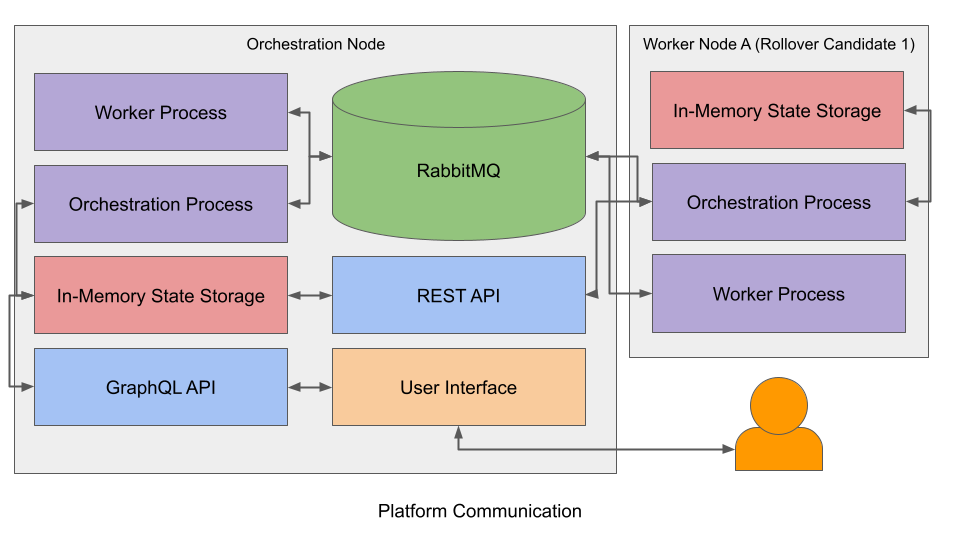
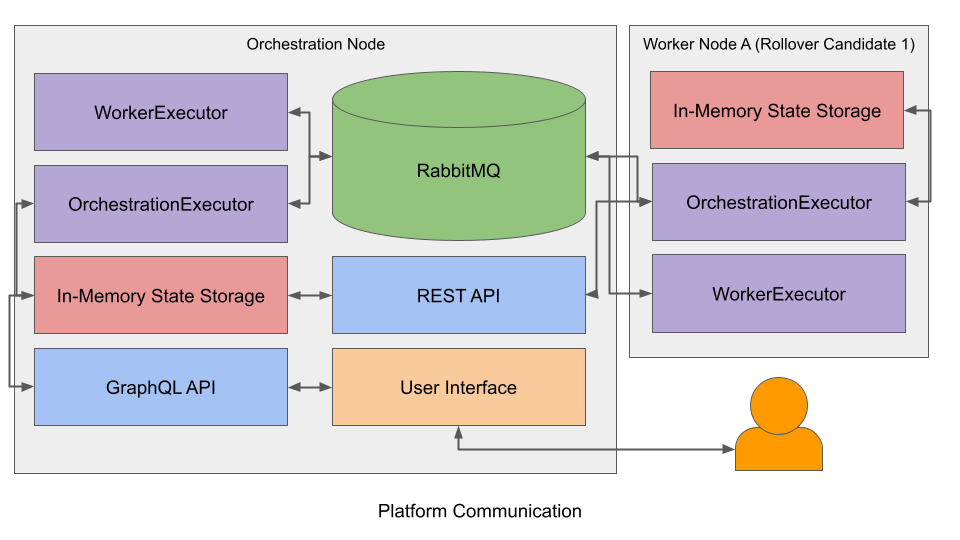
report communication, and fixed all deployment having an Errored status bug

diff --git a/src/platform_executor/orchestration_executor/executor.rs b/src/platform_executor/orchestration_executor/executor.rs
@@ -253,7 +253,7 @@ impl Executor for OrchestrationExecutor {
                                         }
 
                                         deployment.node = curr_node.id.clone();
-                                        deployment.update_status(&ApplicationStatus::Errored);
+                                        deployment.update_status(&ApplicationStatus::Deploying);
                                         self.update_deployment_in_db(&deployment);
                                         // Send work to curr_node
                                         let msg = WorkRequestMessage::new(

diff --git a/documentation/Report.md b/documentation/Report.md
@@ -227,67 +227,61 @@ A Worker, or more precisely a `WorkerExecutor`, handles all tasks in relation to
 
 ```rust
 pub struct WorkerExecutor {
-    /// Each WorkRequestMessage is a request of the worker by the orchestrator
-    /// work_queue_consumer is a consumer of this worker's WorkRequestQueue
     work_queue_consumer: Option<lapin::Consumer>,
     deployments: std::collections::LinkedList<DeploymentInfo>,
     tasks: Vec<Task>,
 }
 ```
 
+A `WorkerExecutor` is relatively simple- it has a handle to a RabbitMQ Queue, `work_queue_consumer`, over which is recieves `WorkRequestMessages`. It has a list of deployments it monitors, `deployments`, and it has a handle to other tasks it is monitoring, `tasks`.
+
+When setup is called on the `WorkerExecutor`, it connects to RabbitMQ, begins broadcasting the Node status to the orchestrator, and establishes the consumer for the `work_queue_consumer`.
+
+On a call to `execute`, the worker does two things: first, it checks to see if it has an outstanding `WorkRequestMessage`. This message is passed to the worker via the RabbitMQ consumer and is extensible, but currently only supports two request types: `RequestDeployment` and `CancelDeployment`. The request contains all the necesarry information for the Worker to perform the requested task. Finally, the `Worker` looks at all its active deployments and broadcasts any relevant log messages to the relevant RabbitMQ queue. More information about how the `RequestDeployment` process works can be found in [Deployments](###Deployments)
+
+Below you can find a simplified version of the code which implements the `Executor` trait for the `WorkerExecutor`.
+
 ```rust
 
 impl Executor for WorkerExecutor {
 
-    async fn setup(&mut self, node: &mut GenericNode) -> Result<(), SetupFaliure> {
+    async fn setup(..) -> Result<(), SetupFaliure> {
         // connect to rabbitMQ
         connect_to_rabbit_instance(&node.rabbit_addr).await;
 
         // create a task to monitor this Node's stats
-        self.tasks.push(Task {
-            task: WorkerExecutor::get_publish_node_system_stats_task(node).await,
-            label: String::from("NodeStats"),
-        });
+        WorkerExecutor::get_publish_node_system_stats_task(node).await
 
         // establish consumer for the worker's work queue
-        self.work_queue_consumer = Some(
-            broker.consume_queue_incr(&node.system_id, &node.system_id).await
-        );
+        broker.consume_queue_incr(&node.system_id).await
     }
 
-    async fn execute(&mut self, node: &mut GenericNode) -> Result<(), ExecutionFaliure> {
-
+    async fn execute(..) -> Result<(), ExecutionFaliure> {
         // if we have a WorkRequestMessage, then execute it
         if let Some(data) = try_fetch_consumer_item(&mut self.work_queue_consumer).await {
             let (_, task) = WorkRequestMessage::deconstruct_message(&data);
 
             match task.request_type {
-                WorkRequestType::RequestDeployment => {
+                RequestDeployment => {
                     handle_deployment(&task).await;
                 }
-                WorkRequestType::CancelDeployment => {
-                    kill_deployment(&task.deployment_id).await;
+                CancelDeployment => {
+                    kill_deployment(&task).await;
                 }
             }
         }
 
         for (index, d) in self.deployments.iter_mut().enumerate() {
-            // if more than a second has passed, check for logs and get updated deployment status
 
             let logs = docker.get_logs(&d.deployment_id).await;
             if !logs.is_empty() {
                 let mut msg = LogMessage::new(&d.deployment_id, &logs.join());
-                msg.send(&publisher, QueueLabel::Log.as_str()).await;
+                msg.send().await;
             }
 
             let status = docker.get_container_status(&d.deployment_id).await
             let mut msg = DeploymentMessage::new(&d.deployment_id, status);
-            msg.send(&publisher, QueueLabel::Deployment.as_str()).await;
-
-            if d.status.is_err() {
-                // remove deployment from those we are actively monitoring, it is dead
-                // ..
-            }
+            msg.send().await;
         }
     }
 }
@@ -296,19 +290,189 @@ impl Executor for WorkerExecutor {
 
 ### Orchestrators
 
+An Orchestrator, or more precisely an `OrchestratorExecutor`, is more complex. It handles all tasks in relation to coordinating deployments- this includes recieving requests for deployments/cancellations from the REST API, validating they are deployable, and distributing requests to nodes. Additionally the orchestrator is responsible for deploying and respoinding to requests from the REST and GraphQL APIs, deploying the RabbitMQ instance, storing application logs, and otherwise managing the platform.
+
+```rust
+pub struct OrchestrationExecutor {
+    /// A handle to the rocket.rs http server task
+    api_server: Option<tokio::task::JoinHandle<()>>,
+    /// A reference to the Database containing information about the platform
+    pub db_ref: Arc<Mutex<Database>>,
+    /// The rank of this executor for rollover. 0 implies this is the active orchestrator, None implies none is assigned.
+    /// Otherwise is treated as lowest number is highest priority
+    pub rollover_priority: Option<u8>,
+    pub queue_consumers: Vec<Task>,
+}
+```
+
+The most important piece of the `OrchestrationExecutor` is the `db_ref`. This is a thread-safe reference to a `Database`. See more information in [In-Memory State Storage](###In-Memory-State-Storage) and [Communication](###Communication) for how this works, but the general idea is the `api_server` has a reference to the database, and so is able to create requests there for deployments. The Orchestrator is then able to read the `Database` record for Nodes and Deployments, and take any actions necesarry based on their states.
+
+When setup is called on the `OrchestrationExecutor`, it fetches the most recent version of the `Kraken-UI` interface and compiles it, spins up a `RabbitMQ` server, connects to it, and sets up threads to consume the various status queues. Finally it establishes the REST and GraphQL APIs which serve the UI and Platform Data.
+
+On a call to `execute`, the Orchestrator does two things: first, it checks all available deployment statuses to see if there is any action to be taken. For example, a deployment might be asking to be updated, destroyed, or created. The Orchestrator will take any action necesarry for those deployments. Then, the Orchestrator will check all the `Nodes` it knows about to ensure they have recently reported a status. If they haven't, it will re-deploy any deployments owned by that Node, and otherwise remove it from the platform.
+
+Below you can find a simplified version of the code which implements the `Executor` trait for the `OrchestrationExecutor`.
+
+```rust
+
+impl Executor for OrchestrationExecutor {
+    async fn setup(..) -> Result<(), SetupFaliure> {
+
+        // Setup RabbmitMQ server and Fetch and compile Kraken-UI
+        let ui = OrchestrationExecutor::fetch_ui();
+        let rabbit = OrchestrationExecutor::deploy_rabbit_instance();
+
+        Self::connect_to_rabbit_instance().await;
+
+        // Consume RabbitMQ Queues
+        // Queue for information about Node statuses
+        self.get_sysinfo_consumer();
+
+        // Queue for information about Deployment statuses
+        self.get_deployment_consumer();
+
+        // Queue for recieving Deployment Logs
+        self.get_log_consumer();
+
+        OrchestrationExecutor::create_api_server();
+    }
+
+    async fn execute(..) -> Result<(), ExecutionFaliure> {
+
+        let deployments = db.get_deployments();
+
+        for mut deployment in d {
+            match deployment.status.0 {
+                DeploymentRequested => {
+                    // Look for free nodes to distribute tasks to
+                    deployment.update_status(ValidatingDeploymentData);
+                    if let Err(_) = validate_deployment(..) {
+                        continue
+                    }
+                    deployment.update_status(DelegatingDeployment);
+
+                    // Pick the best node to handle the deployment
+                    // ..
+
+                    deployment.update_status(Deploying);
+                    // Send work to curr_node
+                    // Create and send a WorkRequestType::RequestDeployment
+                    // For the appropriate node
+                    // ..
+                }
+                UpdateRequested => {
+                    let commit = github_api::get_tail_commit(..);
+                    if commit != deployment.commit {
+                        // Creates and sends a WorkRequestMessage::CancelDeployment
+                        // followed by a WorkRequestType::RequestDeployment
+                        // ..
+                    }
+                }
+                DestructionRequested => {
+                    // Creates and sends a WorkRequestMessage::CancelDeployment
+                    // ..
+                }
+            }
+        }
+
+        for n in db.get_nodes() {
+            // Check to see if a node hasn't been heard from in awhile
+            // If so, then re-deploy all it's owned deployments and remove
+            // All node information from the DB
+            // ..
+        }
+    }
+}
+
+```
+
 ### Orchestration Rollover Candidates
+
+Though technically this role falls under the `OrchestrationExecutor` umbrella, an Orchestration Rollover Candidate is worth talking about separately. These are `OrchestrationExecutors` which have a `rollover_priority != Some(0)`. In these cases, the `setup` for the executor will do nothing. In `execute`, the orchestrator is only responsible for checking to see that it can communicate with the primary orchestrator. If the candidate is the primary candidate (i.e. the first rollover node), then it will also backup the database and log data from the primary orchestrator.
+
+```rust
+
+impl Executor for OrchestrationExecutor {
+    async fn setup(..) -> Result<(), SetupFaliure> {
+        // We are not the primary orchestrator, so no setup is necesarry
+    }
+
+    async fn execute(..) -> Result<(), ExecutionFaliure> {
+
+        let priority = get_rollover_priority(..).await;
+        match priority {
+            None => {
+                // No priority means we have an issue with the orchestration communication
+                // Here we attempt some recovery
+                // ..
+            }
+            Some(_) => {
+                if self.rollover_priority == Some(1) {
+                    // We are the primary rollover canidate, so we need to be backing up
+                    // data from the primary
+                    let database_data = get_primary_orchestrator_db_data(..);
+                    db.clear();
+                    db.backup(database_data)
+
+                    for log in logs_to_backup {
+                        backup_log_file(&log).await;
+                    }
+                }
+                return Ok(());
+            }
+        }
+    }
+}
+
+```
 
 ### Communication
 
+The most complicated portion of this project is figuring out how all the different pieces of the platform communicate with each other. The below diagram covers the different pieces of the platform, and where they are communicating.
+
 ![Platform Communication](./images/platform_communication_diagram.png)
+
+The first thing to note is the way external users interface with the platform. The User Interface only communicates with the platform via the GraphQL API. This communication method was choses so as to maximuze flexibility in development- by using GraphQL, it is very easy to modify the schema of the requests on-the-fly, which sped up development significantly, and allows for future expansibility. The GraphQL API (which really rests on top of a standard REST API) has a thread-safe reference to the In-Memory State Storage (or the `Database`) that is owned by the `OrchestrationExecutor`. All the data to power the API comes from this database, and any user requests which are made to the platform will be created in this database. The only exception to this is the delivery of UI files (and application log files), which come from the REST API.
+
+This theme- the ownership of a thread-safe reference to the `OrchestrationExecutor`'s database, is common across all other parts of the platform as well. The `OrchestrationExecutor` only monitors the database to determine which tasks to perform. The different RabbitMQ queue consumers the database own all have a reference to this database as well, so any inbound to the `OrchestrationExecutor` comes through the database. The only exception to this is in Orchestration Rollover Candidates, which monitor a route on the REST API to ensure the primary orchestrator is still active, and to recieve their backup data.
+
+When an `OrchestrationExecutor` has a need to communicate with a `WorkerExecutor` (in either direction), that communication will travel through the RabbitMQ instance. This includes the following messages:
+
+| Channel ID   | Direction | Message Struct     | Description                                                                                   |
+| ------------ | --------- | ------------------ | --------------------------------------------------------------------------------------------- |
+| Sysinfo      | W -> O    | SysinfoMessage     | Carries information about the status of devices on the network                                |
+| Deployment   | W -> O    | DeploymentMessage  | Carries information about a deployment (either in build, while active, or after deletion)     |
+| Log          | W -> O    | LogMessage         | Carries the log information from a deployment (currently only while the deployment is active) |
+| \<SystemId\> | O -> W    | WorkRequestMessage | Allows the orchestrator to request work from a worker                                         |
 
 ### In-Memory State Storage
 
+There has been a fair bit of discussion about this already, however the primary `OrchestrationExecutor`'s `Database` is the single source of truth for the platform.
+
+```rust
+pub struct Database {
+    /// Information about the deployments the orchestrator is managing
+    deployments: HashMap<String, Deployment>,
+    /// Information about the nodes the orchestrator is managing
+    nodes: HashMap<String, Node>,
+    /// Information about the platform
+    orchestrator: Orchestrator,
+}
+```
+
+Anything which wants to communicate inbound to the `OrchestrationExecutor` (i.e. RabbitMQ Consumers and the REST/GraphQL APIs) has a thread-safe reference to this database. This model is actually very similiar to the implementation of the [mini-redis](https://github.com/tokio-rs/mini-redis) crate.
+
+TODO do I have more to say about this?
+
 ### Rollover
+
+### Deployments
 
 ### User Interface
 
 ### Compilation
+
+### REST/GraphQL API
 
 ### Limitations
 
